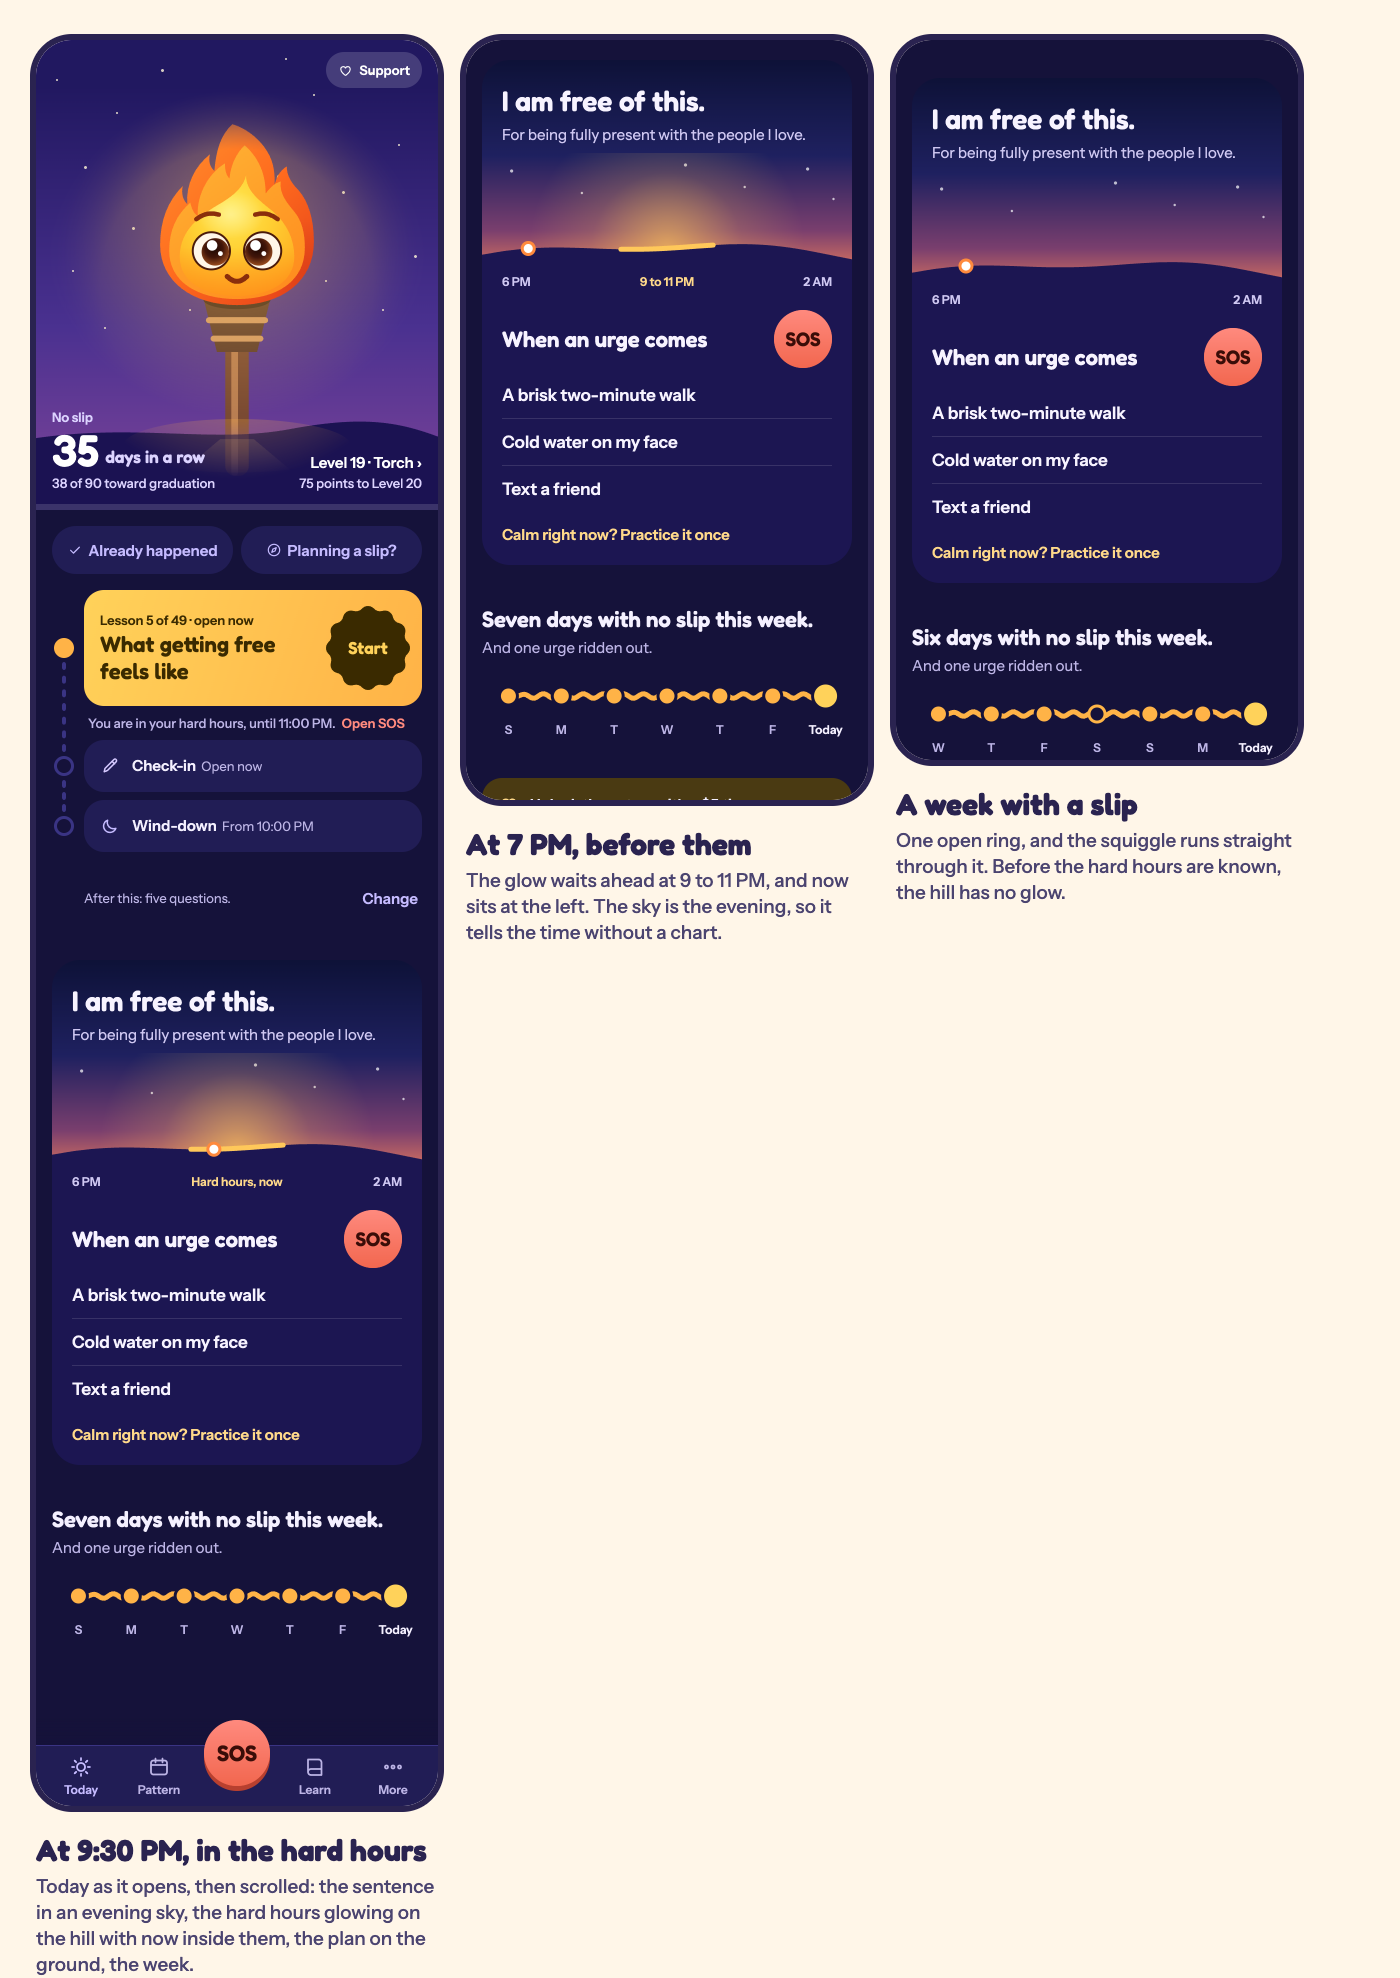
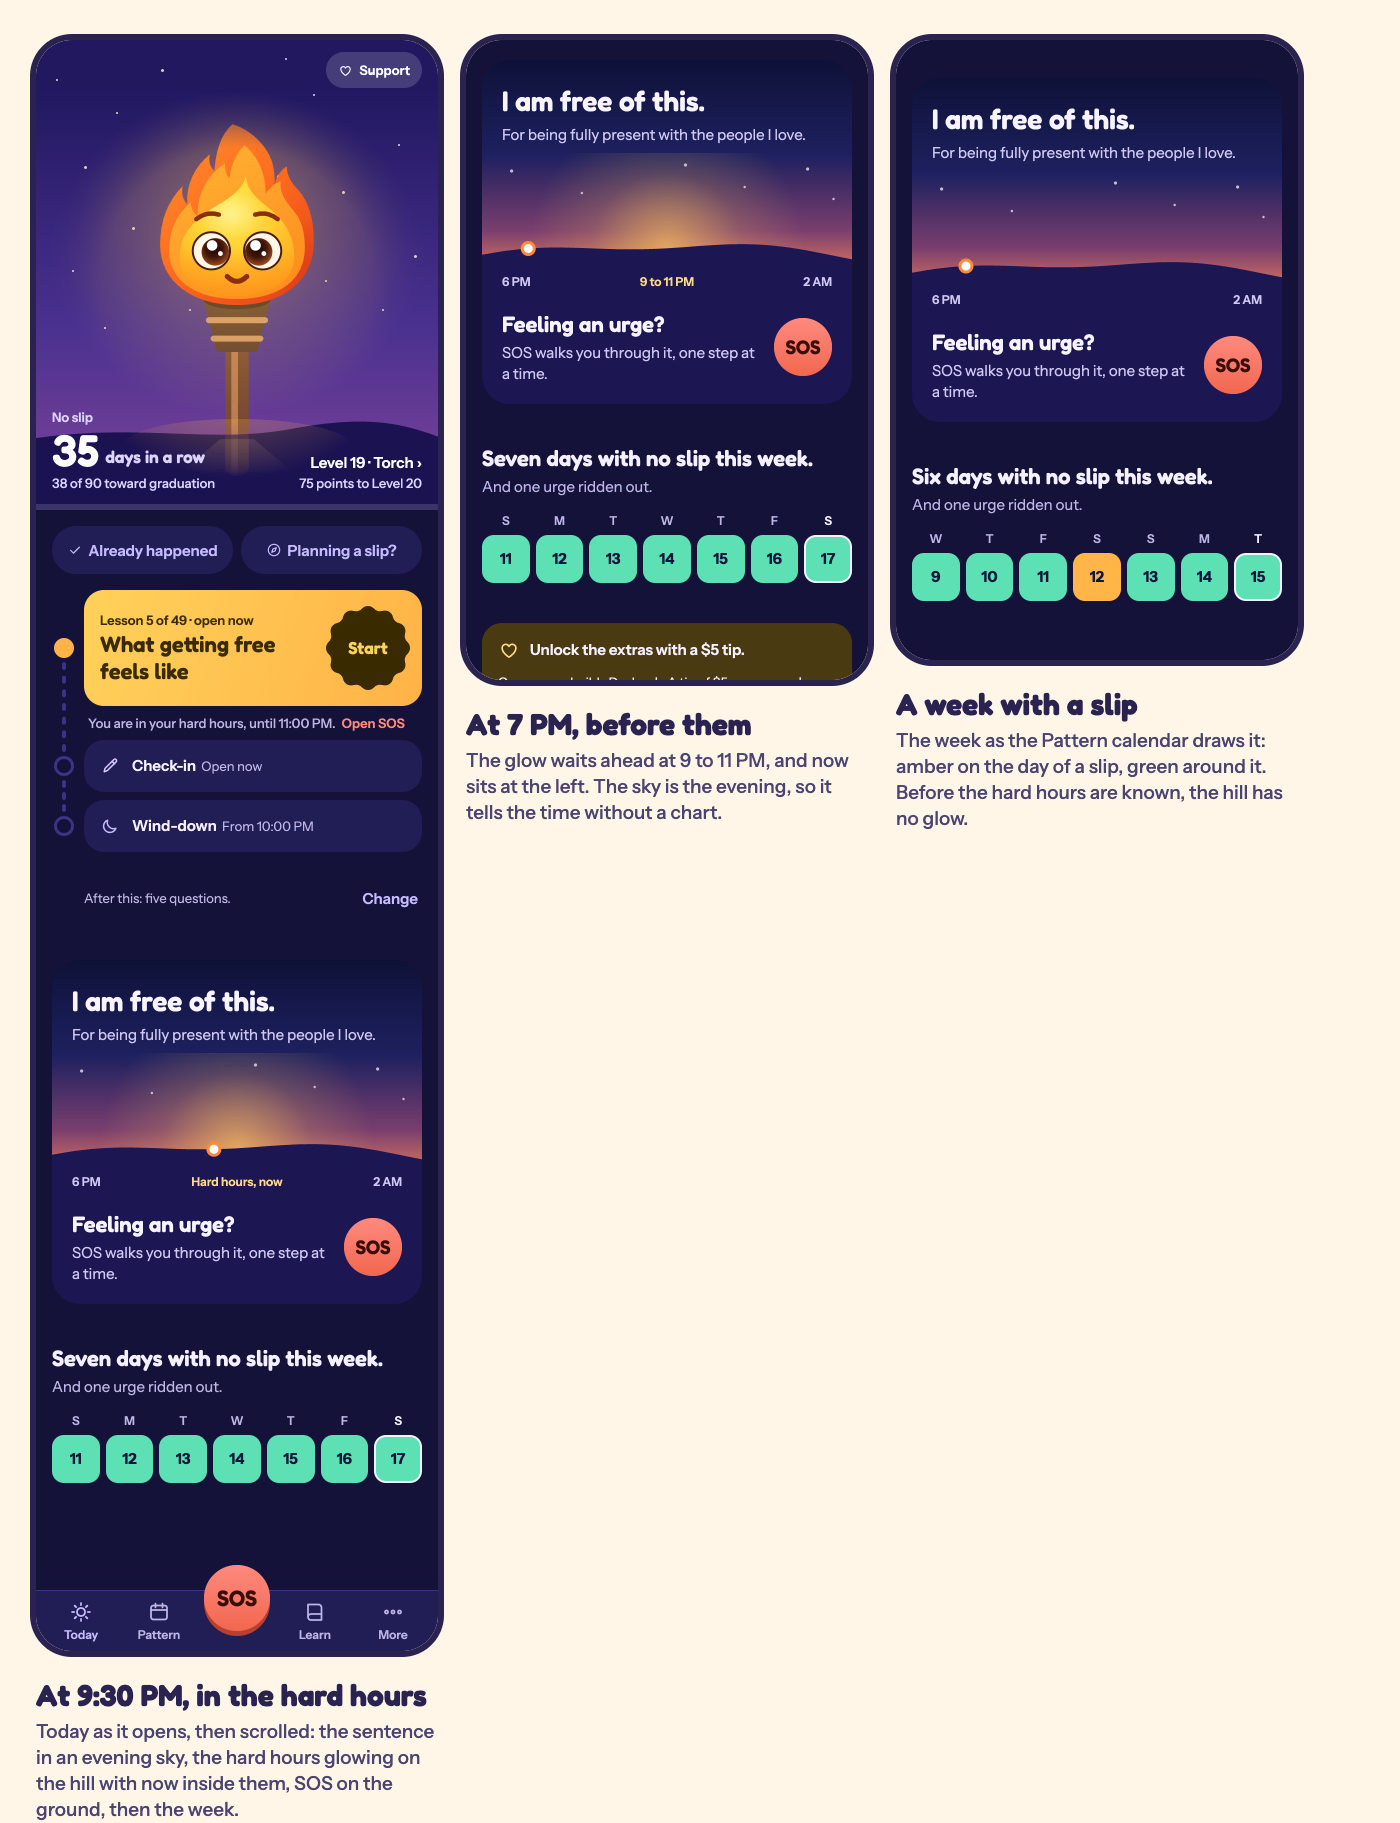
Today with more in it: no line on the hard hours, one plain SOS invite, the week as the Pattern calendar's squares (prototype)

diff --git a/apps/mobile/src/components/today-ready.tsx b/apps/mobile/src/components/today-ready.tsx
@@ -110,11 +110,6 @@ function Horizon({ w, start, nowAt }: { w: number; start: number | null; nowAt: 
   const ground = pts.join(' ') + ` L ${w} ${SKY_H} L 0 ${SKY_H} Z`;
   const a = start == null ? 0 : ((start - FROM + 24) % 24) / SPAN;
   const b = a + 2 / SPAN;
-  const seg: string[] = [];
-  for (let i = 0; i <= 12; i++) {
-    const x = a + ((b - a) * i) / 12;
-    seg.push((i ? 'L' : 'M') + (x * w).toFixed(1) + ' ' + ridge(x).toFixed(1));
-  }
   const gx = ((a + b) / 2) * w;
   const now = Math.max(0, Math.min(1, nowAt));
   return (
@@ -138,7 +133,6 @@ function Horizon({ w, start, nowAt }: { w: number; start: number | null; nowAt: 
       ))}
       {start != null ? <Rect x={0} y={0} width={w} height={SKY_H} fill="url(#hglow)" /> : null}
       <Path d={ground} fill={GROUND} />
-      {start != null ? <Path d={seg.join(' ')} stroke="#FFC85A" strokeWidth={5} strokeLinecap="round" fill="none" /> : null}
       <Circle cx={now * w} cy={ridge(now)} r={6} fill="#FFFFFF" stroke="#FF8A3D" strokeWidth={3} />
     </Svg>
   );
@@ -146,55 +140,34 @@ function Horizon({ w, start, nowAt }: { w: number; start: number | null; nowAt: 
 
 function WeekLine({ snap, tk }: { snap: Snapshot; tk: string }) {
   const c = useTheme();
-  const [w, setW] = useState(0);
   const days = weekOf(snap, tk);
   const wl = weekLine(snap, tk);
-  const step = w / 7;
-  const y = 22;
-  const xs = days.map((_, i) => step * i + step / 2);
+  const on = c.scheme === 'dark' ? '#10163A' : '#FFFFFF';
   const words = ['No days', 'One day', 'Two days', 'Three days', 'Four days', 'Five days', 'Six days', 'Seven days'][wl.clean];
   return (
     <View style={{ gap: 16 }}>
       <View style={{ gap: 4 }}>
         <Text style={[s.weekH, { color: c.ink }]}>{words} with no slip this week.</Text>
-        <T tone="muted">{wl.rode ? (wl.rode === 1 ? 'And one urge ridden out.' : 'And ' + wl.rode + ' urges ridden out.') : 'Every one of them counts.'}</T>
+        {wl.rode ? <T tone="muted">{wl.rode === 1 ? 'And one urge ridden out.' : 'And ' + wl.rode + ' urges ridden out.'}</T> : null}
       </View>
-      <View onLayout={(e) => setW(e.nativeEvent.layout.width)} style={{ height: 64 }}>
-        {w ? (
-          <Svg width={w} height={44}>
-            <Path
-              d={squigglePath(
-                [
-                  [xs[0], y],
-                  [xs[6], y],
-                ],
-                0,
-                xs[6] - xs[0],
-                SQUIGGLE.amp,
-                SQUIGGLE.wavelength,
-              )}
-              stroke={c.sun2}
-              strokeWidth={SQUIGGLE.stroke}
-              strokeLinecap="round"
-              fill="none"
-            />
-            {days.map((d, i) =>
-              d.st === 'slip' ? (
-                <Circle key={d.k} cx={xs[i]} cy={y} r={8} fill={c.bg} stroke={c.slip} strokeWidth={3} />
-              ) : d.st === 'clean' ? (
-                <Circle key={d.k} cx={xs[i]} cy={y} r={d.today ? 13 : 9} fill={d.today ? c.sun : c.sun2} stroke={c.bg} strokeWidth={3} />
-              ) : (
-                <Circle key={d.k} cx={xs[i]} cy={y} r={6} fill={c.bg} stroke={c.line} strokeWidth={2} />
-              ),
-            )}
-          </Svg>
-        ) : null}
-        <View style={s.wdays}>
+      <View style={{ gap: 6 }}>
+        <View style={s.wrow}>
           {days.map((d) => (
             <Text key={d.k} style={[s.wday, { color: d.today ? c.ink : c.muted }]}>
-              {d.today ? 'Today' : d.d}
+              {d.d}
             </Text>
           ))}
+        </View>
+        <View style={s.wrow}>
+          {days.map((d) => {
+            const bg = d.st === 'clean' ? c.mint : d.st === 'slip' ? c.slip : c.surface2;
+            const ink = d.st === 'clean' || d.st === 'slip' ? on : c.muted;
+            return (
+              <View key={d.k} style={[s.wcell, { backgroundColor: bg, borderColor: d.today ? c.ink : bg }]}>
+                <Text style={[s.wnum, { color: ink }]}>{+d.k.slice(8)}</Text>
+              </View>
+            );
+          })}
         </View>
       </View>
     </View>
@@ -204,7 +177,6 @@ function WeekLine({ snap, tk }: { snap: Snapshot; tk: string }) {
 function Tonight({ snap, tk }: { snap: Snapshot; tk: string; level: number }) {
   const st = snap.settings!;
   const win = riskWindow(snap.days, st, tk);
-  const moves = (st.menu || []).slice(0, 3);
   const [w, setW] = useState(0);
   const d = new Date();
   const nowAt = ((d.getHours() + d.getMinutes() / 60 - FROM + 24) % 24) / SPAN;
@@ -229,23 +201,12 @@ function Tonight({ snap, tk }: { snap: Snapshot; tk: string; level: number }) {
             <Text style={[s.tick, { color: nightInk.muted }]}>2 AM</Text>
             {win && w ? <Text style={[s.tick, s.hardT, { left: (a + 1 / SPAN) * w - 20 - 80 }]}>{inIt ? 'Hard hours, now' : win.label}</Text> : null}
           </View>
-          <View style={s.planHead}>
-            <Text style={[s.planH, { color: nightInk.ink }]}>When an urge comes</Text>
-            <Pressable onPress={sos} accessibilityRole="button" accessibilityLabel="Open SOS" style={({ pressed }) => pressed && { opacity: 0.8 }}>
-              <RoundSos size={58} />
-            </Pressable>
-          </View>
-          {moves.map((m, i) => (
-            <Text key={m} style={[s.planMove, { color: nightInk.ink, borderTopColor: 'rgba(255,255,255,0.12)', borderTopWidth: i ? 1 : 0 }]}>
-              {m}
-            </Text>
-          ))}
-          <Pressable
-            onPress={practice}
-            accessibilityRole="button"
-            hitSlop={10}
-            style={({ pressed }) => [{ alignSelf: 'flex-start', marginTop: 12 }, pressed && { opacity: 0.6 }]}>
-            <Text style={[s.link, { color: '#FFD98A' }]}>Calm right now? Practice it once</Text>
+          <Pressable onPress={sos} accessibilityRole="button" accessibilityLabel="Open SOS" style={({ pressed }) => [s.planHead, pressed && { opacity: 0.85 }]}>
+            <View style={{ flex: 1, gap: 4 }}>
+              <Text style={[s.planH, { color: nightInk.ink }]}>Feeling an urge?</Text>
+              <Text style={[s.p, { color: nightInk.muted }]}>SOS walks you through it, one step at a time.</Text>
+            </View>
+            <RoundSos size={58} />
           </Pressable>
         </View>
       </View>
@@ -318,11 +279,13 @@ const s = StyleSheet.create({
   scene: { borderRadius: 28, overflow: 'hidden' },
   clock: { flexDirection: 'row', justifyContent: 'space-between', marginTop: 2, marginBottom: 20 },
   hardT: { position: 'absolute', width: 160, textAlign: 'center', color: '#FFD98A', top: 0 },
-  planHead: { flexDirection: 'row', alignItems: 'center', justifyContent: 'space-between', marginBottom: 4 },
+  planHead: { flexDirection: 'row', alignItems: 'center', gap: 16 },
   planH: { fontFamily: font.display, fontSize: 22, lineHeight: 28 },
   planMove: { fontFamily: font.bodySemi, fontSize: 17, lineHeight: 22, paddingVertical: 12 },
   weekH: { fontFamily: font.display, fontSize: 22, lineHeight: 28 },
-  wdays: { flexDirection: 'row', position: 'absolute', left: 0, right: 0, bottom: 0 },
+  wrow: { flexDirection: 'row', gap: 6 },
+  wcell: { flex: 1, aspectRatio: 1, borderRadius: 12, borderWidth: 2.5, alignItems: 'center', justifyContent: 'center' },
+  wnum: { fontFamily: font.bodyBold, fontSize: 15, lineHeight: 20 },
   wday: { flex: 1, textAlign: 'center', fontFamily: font.bodySemi, fontSize: 12, lineHeight: 16 },
   more: { gap: 40, marginTop: 24, paddingBottom: 24 },
   sec: { gap: 12 },

diff --git a/docs/plan.md b/docs/plan.md
@@ -19,6 +19,8 @@
 - The plan sits on the ground of the same scene, as the number sits on the ground of Today's sky: "When an urge comes" with the round SOS beside it, the three moves as plain lines, and "Calm right now? Practice it once". One picture, not a heading, a list and a button stacked.
 - The week drops the little fires (they read as emoji, which the checklist names) for the app's own squiggle, which already means progress: one mark a day, Today bigger, the day of a slip an open ring, and the line runs straight through it. Over it, one sentence: "Seven days with no slip this week." and "And one urge ridden out."
 
+**The owner's second look:** the lit yellow stretch of the ridge and the squiggle under the week both looked tacky, and the list of moves under SOS did not make sense (SOS runs its own steps, not the person's list). Now: the hard hours are the glow alone, with no line; the ground of the scene holds one plain invite, "Feeling an urge? SOS walks you through it, one step at a time." with the round SOS; and the week is the Pattern calendar's own squares for the last seven days (green for no slip, amber for a slip, today ringed), under "Seven days with no slip this week." The practice ride is left off Today for now. The person's moves stay where they were, in My plan and inside SOS.
+
 **Why Today feels empty.** Today is built to fit one screen: the sky takes every point the rest does not need (`lib/today-size.ts`), and nothing sits under Your day. So there is nothing to scroll to, and on a calm day the page is the flame, two buttons and three stops. The fix keeps all of that exactly as it is, the flame the same size, and adds a part below it that the page scrolls to.
 
 **What could move onto Today, by the one test (does it help the person become someone free of the habit, and is the next step still obvious):**
